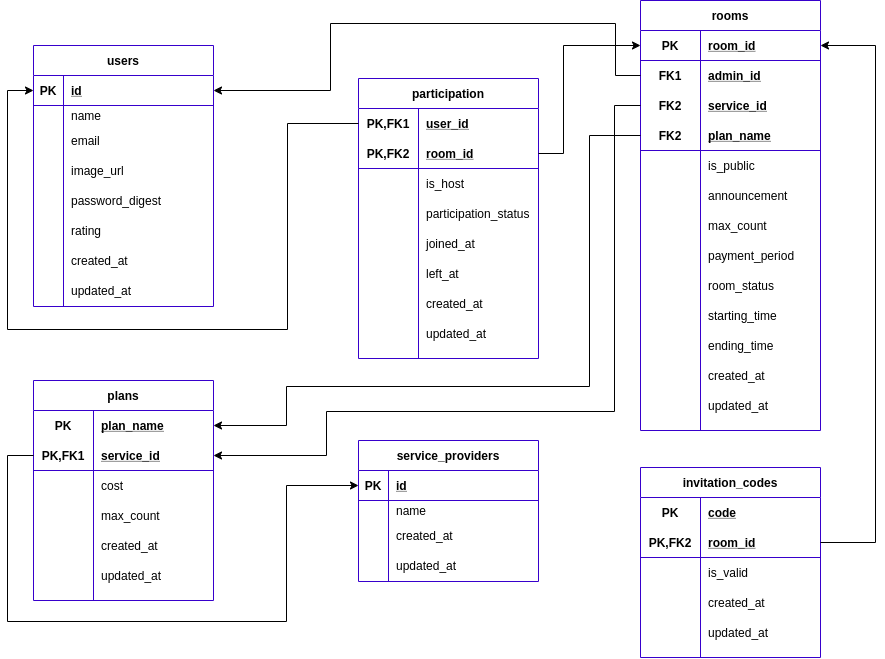
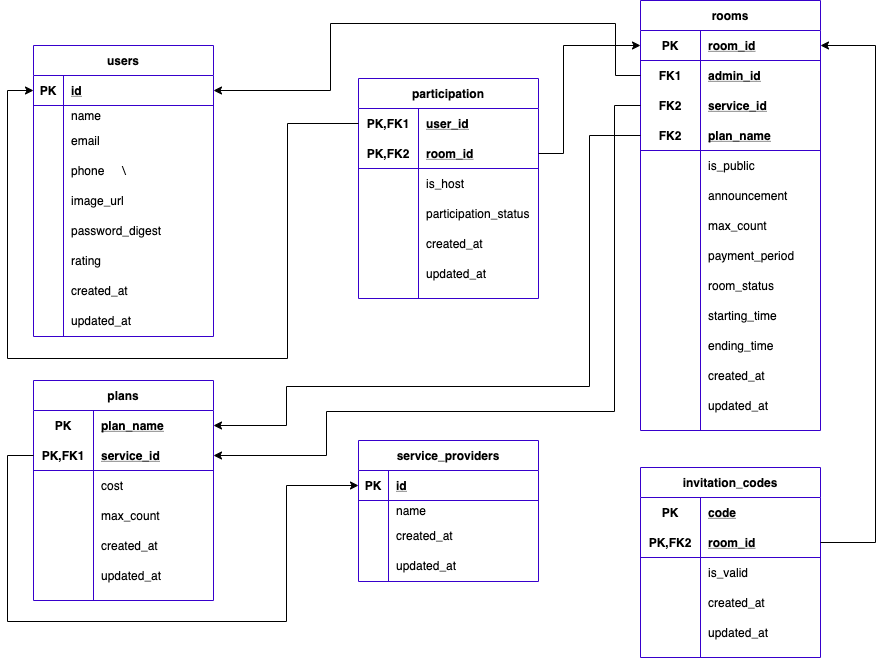
Update db schema & room info response

diff --git a/go-server/participation/repository/mysql/mysql_participation.go b/go-server/participation/repository/mysql/mysql_participation.go
@@ -56,7 +56,7 @@ func (m *mysqlParticipationRepository) LeaveRoom(ctx context.Context, roomId int
 
 func (m *mysqlParticipationRepository) GetRoomInfo(c context.Context, roomId int32) (res *domain.RoomInfoResponse, err error) {
 	var roomInfo *domain.RoomInfoResponse
-	if err := m.Conn.Table("rooms").Select("service_providers.name as service_name, rooms.room_id, rooms.is_public, rooms.announcement, rooms.max_count, rooms.plan_name, rooms.room_status, rooms.starting_time, rooms.ending_time, rooms.payment_period, users.name as admin_name, users.email as admin_email, plans.cost as payment_fee").
+	if err := m.Conn.Table("rooms").Select("service_providers.name as service_name, rooms.room_id, rooms.is_public, rooms.announcement, rooms.max_count, rooms.plan_name, rooms.room_status, rooms.starting_time, rooms.ending_time, rooms.payment_period, users.name as admin_name, users.email as admin_email, users.rating as admin_rating, users.phone as admin_phone, plans.cost as payment_fee").
 		Joins("JOIN users ON users.id = rooms.admin_id").
 		Joins("JOIN plans ON plans.plan_name = rooms.plan_name AND plans.service_id = rooms.service_id").
 		Joins("JOIN service_providers ON service_providers.id = plans.service_id").
@@ -65,6 +65,18 @@ func (m *mysqlParticipationRepository) GetRoomInfo(c context.Context, roomId int
 	}
 
 	return roomInfo, nil
+}
+
+func (m *mysqlParticipationRepository) GetRoomAdmin(c context.Context, roomId int32) (res *domain.User, err error) {
+	var admin *domain.User
+	if err := m.Conn.Table("participation").Select("users.name AS name, users.email AS email, users.rating AS rating, users.phone AS phone").
+		Joins("JOIN rooms ON rooms.room_id = participation.room_id").
+		Joins("JOIN users ON users.id = rooms.admin_id").
+		Where("participation.room_id = ?", roomId).Find(&admin).Error; err != nil {
+		return nil, err
+	}
+
+	return admin, nil
 }
 
 func (m *mysqlParticipationRepository) GetRoomMembers(c context.Context, roomId int32) (res []domain.Participation, err error) {

diff --git a/go-server/domain/room.go b/go-server/domain/room.go
@@ -56,20 +56,17 @@ type RoomItem struct {
 type RoomInfoResponse struct {
 	RoomId        int32           `json:"room_id,omitempty"`
 	IsPublic      bool            `json:"is_public,omitempty"`
-	Announcement  string          `json:"announcement,omitempty"`
+	Announcement  string          `json:"announcement"`
 	MaxCount      int32           `json:"max_count,omitempty"`
 	PaymentPeriod int32           `json:"payment_period,omitempty"`
 	RoomStatus    *RoomStatus     `json:"room_status,omitempty"`
-	StartingTime  time.Time       `json:"starting_time,omitempty"`
-	EndingTime    time.Time       `json:"ending_time,omitempty"`
+	StartingTime  *time.Time      `json:"starting_time"`
+	EndingTime    *time.Time      `json:"ending_time"`
 	ServiceName   string          `json:"service_name,omitempty"`
 	PlanName      string          `json:"plan_name,omitempty"`
 	Role          string          `json:"role,omitempty"`
 	PaymentFee    int32           `json:"payment_fee,omitempty"`
-	AdminName     string          `json:"admin_name,omitempty"`
-	AdminRating   float64         `json:"admin_rating,omitempty"`
-	AdminEmail    string          `json:"admin_email,omitempty"`
-	AdminPhone    string          `json:"admin_phone,omitempty"`
+	Admin         *User           `json:"admin,omitempty" gorm:"-"`
 	Members       []Participation `json:"members,omitempty" gorm:"-"`
 }
 
@@ -80,6 +77,7 @@ type RoomRepository interface {
 type RoomUsecase interface {
 	Create(ctx context.Context, room *RoomRequest) error
 	GetRoomInfo(ctx context.Context, roomId int32) (res *RoomInfoResponse, err error)
+	GetRoomAdmin(ctx context.Context, roomId int32) (res *User, err error)
 	GetRoomMembers(ctx context.Context, roomId int32) (res []Participation, err error)
 	GetJoinedRooms(ctx context.Context) ([]RoomItem, error)
 	GenerateInvitationCode(ctx context.Context, roomId int32) (string, error)

diff --git a/go-server/domain/participation.go b/go-server/domain/participation.go
@@ -2,7 +2,6 @@ package domain
 
 import (
 	"context"
-	"time"
 )
 
 type PaymentStatus string
@@ -14,13 +13,11 @@ const (
 )
 
 type Participation struct {
-	UserId        int32     `json:"user_id,omitempty"`
-	UserName      string    `json:"user_name,omitempty"`
-	RoomId        int32     `json:"room_id,omitempty"`
-	PaymentStatus string    `json:"payment_status,omitempty"`
-	JoinedAt      time.Time `json:"starting_time,omitempty"`
-	LeftAt        time.Time `json:"ending_time,omitempty"`
-	IsHost        bool      `json:"is_host,omitempty"`
+	UserId        int32  `json:"user_id,omitempty"`
+	UserName      string `json:"user_name,omitempty"`
+	RoomId        int32  `json:"room_id,omitempty"`
+	PaymentStatus string `json:"payment_status,omitempty"`
+	IsHost        bool   `json:"is_host,omitempty"`
 }
 
 type ParticipationRequest struct {
@@ -31,6 +28,7 @@ type ParticipationRequest struct {
 type ParticipationRepository interface {
 	Create(ctx context.Context, participation *Participation) error
 	GetRoomInfo(ctx context.Context, roomId int32) (res *RoomInfoResponse, err error)
+	GetRoomAdmin(ctx context.Context, roomId int32) (res *User, err error)
 	GetRoomMembers(ctx context.Context, roomId int32) (res []Participation, err error)
 	GetJoinedRooms(ctx context.Context, userId int32) ([]RoomItem, error)
 	IsAdmin(ctx context.Context, roomId int32, userId int32) (bool, error)

diff --git a/go-server/domain/mocks/ParticipationRepository.go b/go-server/domain/mocks/ParticipationRepository.go
@@ -51,6 +51,29 @@ func (_m *ParticipationRepository) GetJoinedRooms(ctx context.Context, userId in
 	return r0, r1
 }
 
+// GetRoomAdmin provides a mock function with given fields: ctx, roomId
+func (_m *ParticipationRepository) GetRoomAdmin(ctx context.Context, roomId int32) (*domain.User, error) {
+	ret := _m.Called(ctx, roomId)
+
+	var r0 *domain.User
+	if rf, ok := ret.Get(0).(func(context.Context, int32) *domain.User); ok {
+		r0 = rf(ctx, roomId)
+	} else {
+		if ret.Get(0) != nil {
+			r0 = ret.Get(0).(*domain.User)
+		}
+	}
+
+	var r1 error
+	if rf, ok := ret.Get(1).(func(context.Context, int32) error); ok {
+		r1 = rf(ctx, roomId)
+	} else {
+		r1 = ret.Error(1)
+	}
+
+	return r0, r1
+}
+
 // GetRoomInfo provides a mock function with given fields: ctx, roomId
 func (_m *ParticipationRepository) GetRoomInfo(ctx context.Context, roomId int32) (*domain.RoomInfoResponse, error) {
 	ret := _m.Called(ctx, roomId)

diff --git a/go-server/domain/mocks/RoomUsecase.go b/go-server/domain/mocks/RoomUsecase.go
@@ -72,6 +72,29 @@ func (_m *RoomUsecase) GetJoinedRooms(ctx context.Context) ([]domain.RoomItem, e
 	return r0, r1
 }
 
+// GetRoomAdmin provides a mock function with given fields: ctx, roomId
+func (_m *RoomUsecase) GetRoomAdmin(ctx context.Context, roomId int32) (*domain.User, error) {
+	ret := _m.Called(ctx, roomId)
+
+	var r0 *domain.User
+	if rf, ok := ret.Get(0).(func(context.Context, int32) *domain.User); ok {
+		r0 = rf(ctx, roomId)
+	} else {
+		if ret.Get(0) != nil {
+			r0 = ret.Get(0).(*domain.User)
+		}
+	}
+
+	var r1 error
+	if rf, ok := ret.Get(1).(func(context.Context, int32) error); ok {
+		r1 = rf(ctx, roomId)
+	} else {
+		r1 = ret.Error(1)
+	}
+
+	return r0, r1
+}
+
 // GetRoomInfo provides a mock function with given fields: ctx, roomId
 func (_m *RoomUsecase) GetRoomInfo(ctx context.Context, roomId int32) (*domain.RoomInfoResponse, error) {
 	ret := _m.Called(ctx, roomId)

diff --git a/go-server/domain/user.go b/go-server/domain/user.go
@@ -2,17 +2,15 @@ package domain
 
 import (
 	"context"
-	"time"
 )
 
 type User struct {
-	Id             int32     `json:"id,omitempty"`
-	Name           string    `json:"name,omitempty"`
-	Email          string    `json:"email,omitempty"`
-	PasswordDigest string    `json:"password_digest,omitempty"`
-	Rating         int32     `json:"rating,omitempty"`
-	CreatedAt      time.Time `json:"created_at,omitempty"`
-	UpdatedAt      time.Time `json:"updated_at,omitempty"`
+	Id             int32  `json:"id,omitempty"`
+	Name           string `json:"name,omitempty"`
+	Email          string `json:"email,omitempty"`
+	Phone          string `json:"phone"`
+	PasswordDigest string `json:"password_digest,omitempty"`
+	Rating         int32  `json:"rating"`
 }
 
 type UserRepository interface {

diff --git a/go-server/room/usecase/room_ucase.go b/go-server/room/usecase/room_ucase.go
@@ -179,6 +179,25 @@ func (r *roomUsecase) GetRoomInfo(c context.Context, roomId int32) (res *domain.
 	return res, nil
 }
 
+func (r *roomUsecase) GetRoomAdmin(c context.Context, roomId int32) (res *domain.User, err error) {
+	ctx, cancel := context.WithTimeout(c, r.contextTimeout)
+	defer cancel()
+
+	user := c.Value(domain.CtxUserKey).(*domain.User)
+
+	_, err = r.participationRepo.IsAdmin(ctx, roomId, user.Id)
+	if err != nil {
+		return nil, room.ErrNotMember
+	}
+
+	res, err = r.participationRepo.GetRoomAdmin(ctx, roomId)
+	if err != nil {
+		return nil, err
+	}
+
+	return res, nil
+}
+
 func (r *roomUsecase) GetRoomMembers(c context.Context, roomId int32) (res []domain.Participation, err error) {
 	ctx, cancel := context.WithTimeout(c, r.contextTimeout)
 	defer cancel()

diff --git a/go-server/room/delivery/http/room_handler.go b/go-server/room/delivery/http/room_handler.go
@@ -81,6 +81,17 @@ func (u *RoomHandler) GetRoomInfo(c *gin.Context) {
 		return
 	}
 
+	admin, err := u.RoomUsecase.GetRoomAdmin(c, int32(roomID))
+	if err != nil {
+		logrus.Error(err)
+		if err == room.ErrNotMember {
+			c.AbortWithStatusJSON(http.StatusBadRequest, err.Error())
+			return
+		}
+		c.AbortWithStatus(http.StatusBadRequest)
+		return
+	}
+
 	members, err := u.RoomUsecase.GetRoomMembers(c, int32(roomID))
 	if err != nil {
 		logrus.Error(err)
@@ -92,6 +103,7 @@ func (u *RoomHandler) GetRoomInfo(c *gin.Context) {
 		return
 	}
 
+	roomInfo.Admin = admin
 	roomInfo.Members = members
 
 	c.JSON(http.StatusOK, roomInfo)

diff --git a/go-server/go/model_admin.go b/go-server/go/model_admin.go
@@ -8,11 +8,13 @@
  */
 package swagger
 
-type Member struct {
+type Admin struct {
 
-	UserId int32 `json:"user_id,omitempty"`
+	Name string `json:"name,omitempty"`
 
-	UserName string `json:"user_name,omitempty"`
+	Email string `json:"email,omitempty"`
 
-	PaymentStatus *PaymentStatus `json:"payment_status,omitempty"`
+	Rating int32 `json:"rating,omitempty"`
+
+	Phone string `json:"phone,omitempty"`
 }

diff --git a/go-server/go/model_room_info_response.go b/go-server/go/model_room_info_response.go
@@ -37,13 +37,7 @@ type RoomInfoResponse struct {
 
 	PaymentFee int32 `json:"payment_fee,omitempty"`
 
-	AdminName string `json:"admin_name,omitempty"`
-
-	AdminRating float64 `json:"admin_rating,omitempty"`
-
-	AdminEmail string `json:"admin_email,omitempty"`
-
-	AdminPhone string `json:"admin_phone,omitempty"`
+	Admin *Admin `json:"admin,omitempty"`
 
 	Members []Member `json:"members,omitempty"`
 }
